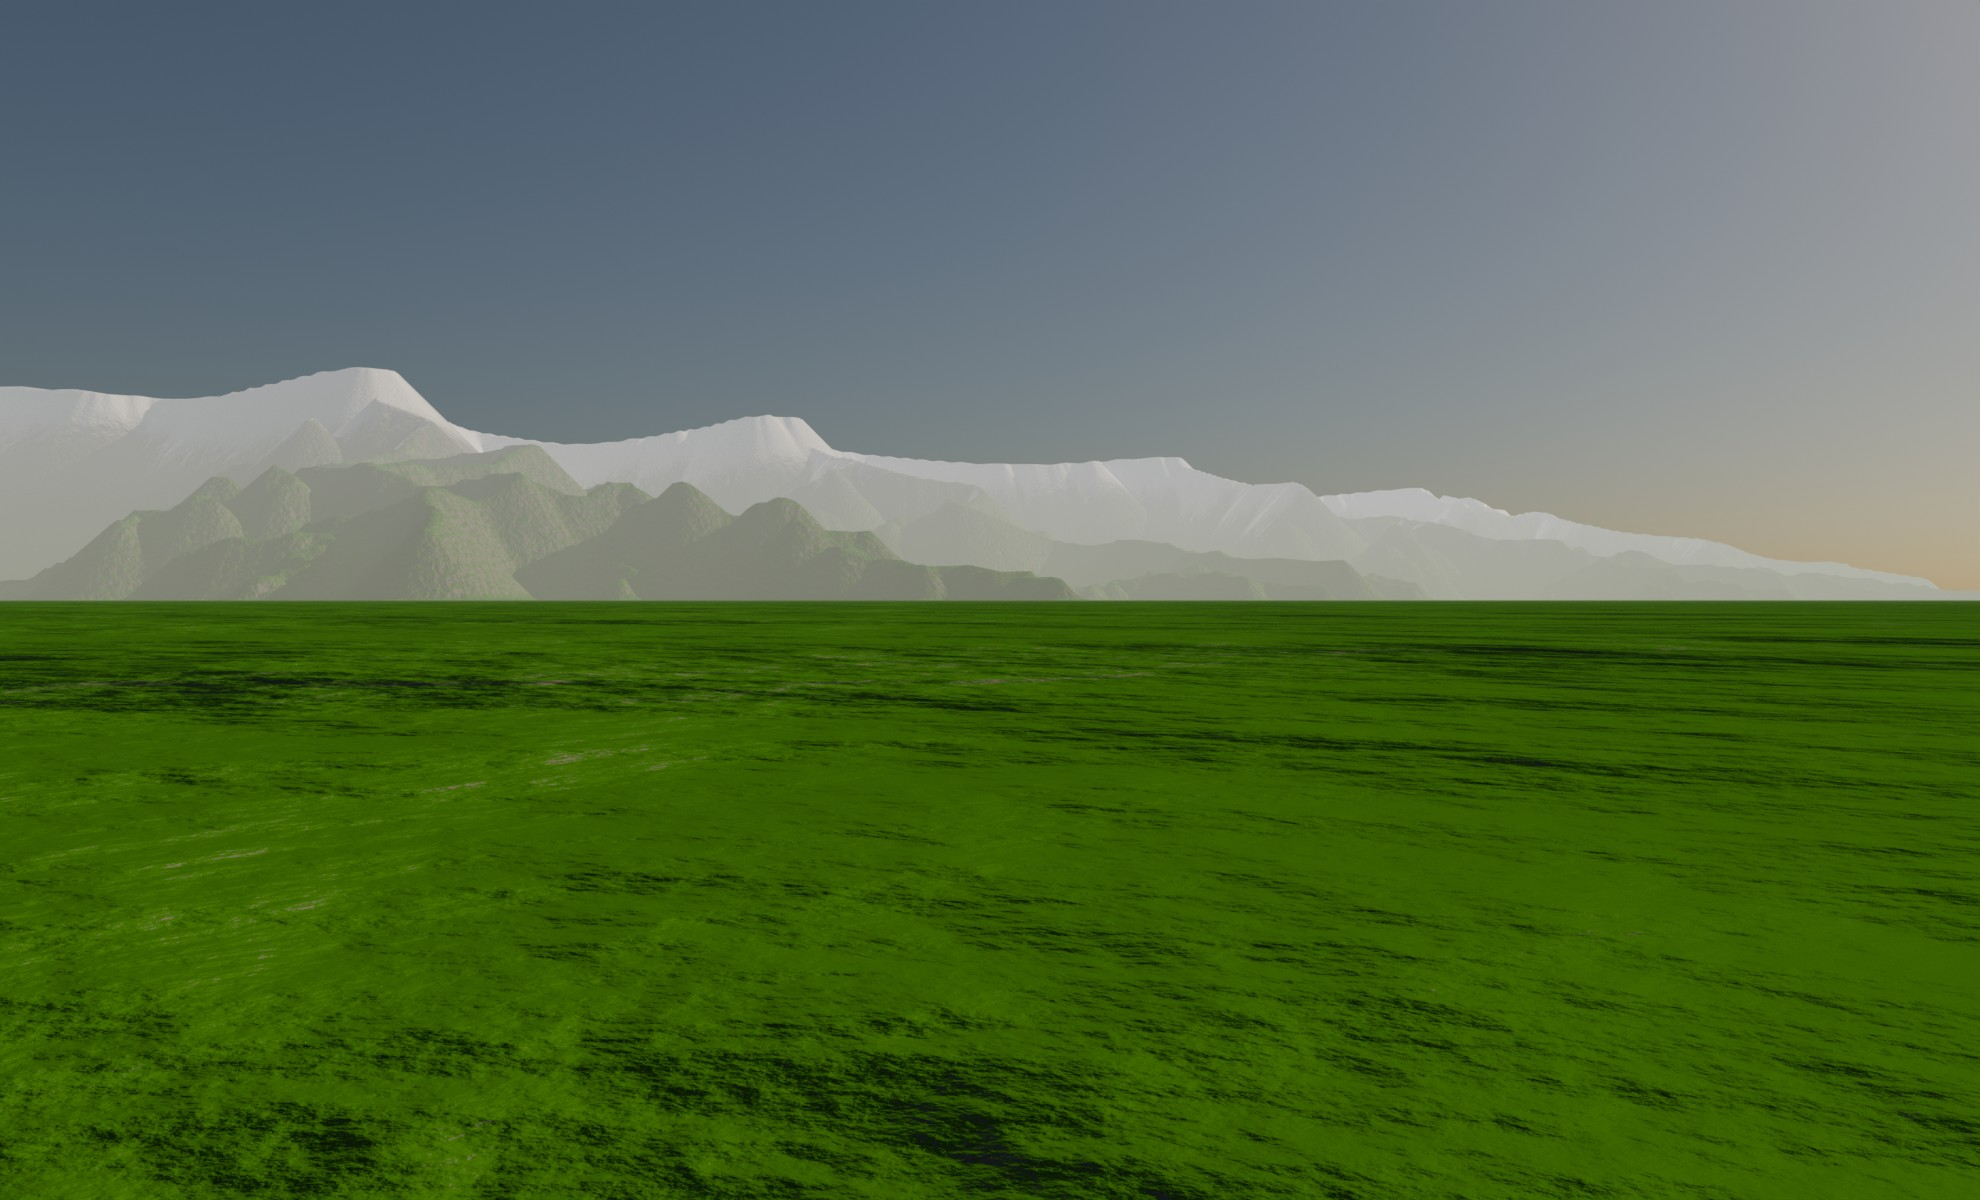
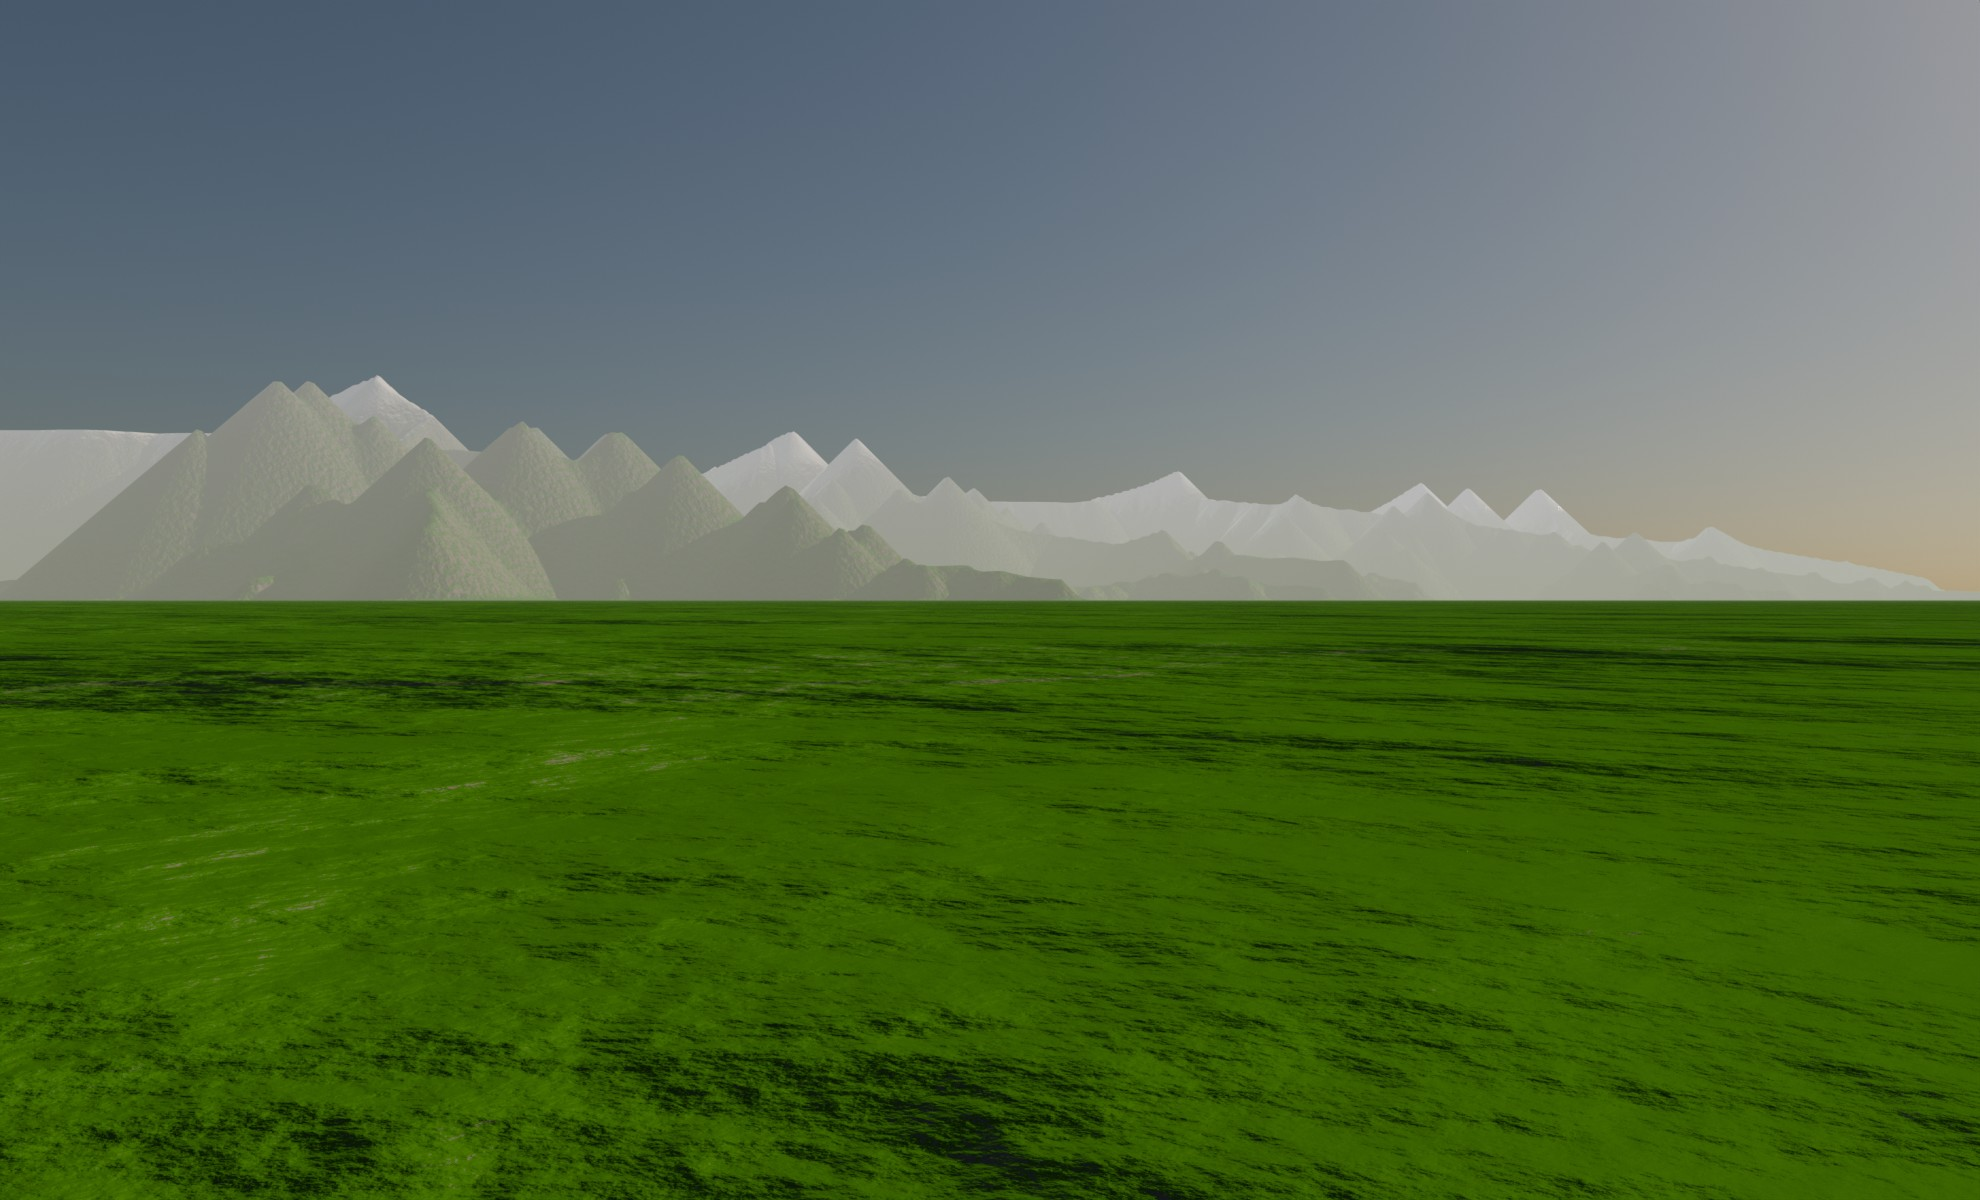
Implement support for adjusting slope on peaks

diff --git a/lib/generators/ridge_tree_generator/ridge_tree_branch.cpp b/lib/generators/ridge_tree_generator/ridge_tree_branch.cpp
@@ -4,8 +4,6 @@
 
 #include "lib/curve_tools/length.hpp"
 
-#include <random>
-
 terraformer::polynomial<3> terraformer::create_polynomial(
 	float curve_length,
 	elevation z_0,
@@ -13,24 +11,15 @@ terraformer::polynomial<3> terraformer::create_polynomial(
 	random_generator& rng
 )
 {
-	std::uniform_real_distribution slope_distribution{0.0f, 1.0f};
-	auto const t_begin = slope_distribution(rng);
-	auto const begin_range = elevation_profile.starting_slope.max
-		- elevation_profile.starting_slope.min;
-
-	auto const t_end = slope_distribution(rng);
-	auto const end_range = elevation_profile.final_slope.max
-		- elevation_profile.final_slope.min;
-
-	constexpr auto two_pi = std::numbers::pi_v<float>;
+	constexpr auto two_pi = 2.0f*std::numbers::pi_v<float>;
 	return make_polynomial(
 		cubic_spline_control_point{
 			.y = z_0,
-			.ddx = -curve_length*std::tan(two_pi*(elevation_profile.starting_slope.min + t_begin*begin_range))
+			.ddx = -curve_length*std::tan(two_pi*pick(elevation_profile.starting_slope, rng))
 		},
 		cubic_spline_control_point{
 			.y = elevation_profile.final_elevation,
-			.ddx = -curve_length*std::tan(two_pi*(elevation_profile.final_slope.min + t_end*end_range))
+			.ddx = -curve_length*std::tan(two_pi*pick(elevation_profile.final_slope, rng))
 		}
 	);
 }
@@ -47,20 +36,43 @@ terraformer::single_array<float> terraformer::generate_elevation_profile(
 
 	single_array ret{std::size(integrated_curve_length)};
 	for(auto k = ret.first_element_index(); k != std::size(ret); ++k)
-	{ ret[k] = ridge_polynomial(integrated_curve_length[k]/L); }
+	{ ret[k] = std::max(ridge_polynomial(integrated_curve_length[k]/L), 0.0f); }
 
 	return ret;
+}
+
+namespace
+{
+	auto wrap_derivative(
+		float target_derivative,
+		float modulation_func_val,
+		terraformer::polynomial<3> const& f,
+		float x,
+		float x_scale_factor,
+		float mod_depth
+	)
+	{
+		auto const x_scaled = x/x_scale_factor;
+		if(f(x_scaled) <= 0.0f)
+		{ return 0.0f; }
+
+		return (
+			 target_derivative
+			- (1.0f + mod_depth*modulation_func_val)*f.derivative(x_scaled)/x_scale_factor
+		)/(f(x_scaled)*mod_depth);
+	}
 }
 
 terraformer::single_array<float> terraformer::generate_elevation_profile(
 	span<float const> integrated_curve_length,
 	span<displaced_curve::index_type const> branch_points,
-	polynomial<3> const& initial_curve,
+	polynomial<3> const& initial_elevation,
 	peak_elevation_description const& elevation_profile,
 	random_generator& rng
 )
 {
-	// TODO: first element should use the post-modulated value from the parent as begin_elevation
+	// TODO: first element should probably use the post-modulated value from the parent as begin_elevation
+
 
 	if(integrated_curve_length.empty())
 	{ return terraformer::single_array<float>{}; }
@@ -79,10 +91,31 @@ terraformer::single_array<float> terraformer::generate_elevation_profile(
 		auto const dl = integrated_curve_length[end_index] - integrated_curve_length[begin_index];
 		auto const end_elevation = peak_elevation_distribution(rng);
 		auto const col_elvation = -peak_elevation_distribution(rng);
+		auto const mod_depth = elevation_profile.mod_depth;
+
+		constexpr auto two_pi = 2.0f*std::numbers::pi_v<float>;
+		auto const begin_ddx = wrap_derivative(
+			std::tan(two_pi*pick(elevation_profile.slope, rng)),
+			begin_elevation,
+			initial_elevation,
+			integrated_curve_length[begin_index],
+			L,
+			mod_depth
+		);
+
+		auto const end_ddx = wrap_derivative(
+			std::tan(two_pi*pick(elevation_profile.slope, rng)),
+			begin_elevation,
+			initial_elevation,
+			integrated_curve_length[begin_index],
+			L,
+			mod_depth
+		);
+
 		auto const p_peak_begin = make_polynomial(
 			cubic_spline_control_point{
 				.y = begin_elevation,
-				.ddx = 0.0f  // TODO
+				.ddx = -0.5f*dl*begin_ddx  // Divide by two to compensate for spline being compressed
 			},
 			cubic_spline_control_point{
 				.y = col_elvation,
@@ -97,20 +130,19 @@ terraformer::single_array<float> terraformer::generate_elevation_profile(
 			},
 			cubic_spline_control_point{
 				.y = end_elevation,
-				.ddx = 0.0f // TODO
+				.ddx = 0.5f*dl*end_ddx  // Divide by two to compensate for spline being compressed
 			}
 		);
 
-		auto const mod_func = [p_peak_begin, p_peak_end](auto x) {
-			return x < 0.5f? p_peak_begin(2.0f*x) : p_peak_end(2.0f*(x - 0.5f));
+		auto const mod_func = [p_peak_begin, p_peak_end, col_elvation](auto x) {
+			return std::max(x < 0.5f? p_peak_begin(2.0f*x) : p_peak_end(2.0f*(x - 0.5f)), col_elvation);
 		};
 
-		auto const mod_depth = elevation_profile.mod_depth;
 		for(auto l = begin_index; l != end_index; ++l)
 		{
 			auto const t = integrated_curve_length[l];
 			auto const x = t - integrated_curve_length[begin_index];
-			ret[l] = initial_curve(t/L)*(1.0f + mod_depth*mod_func(x/dl));
+			ret[l] = std::max(initial_elevation(t/L), 0.0f)*(1.0f + mod_depth*mod_func(x/dl));
 		}
 
 		begin_elevation = end_elevation;
@@ -120,7 +152,7 @@ terraformer::single_array<float> terraformer::generate_elevation_profile(
 	for(auto l = begin_index; l != std::size(integrated_curve_length); ++l)
 	{
 		auto const t = integrated_curve_length[l];
-		ret[l] = initial_curve(t/L);
+		ret[l] = std::max(initial_elevation(t/L), 0.0f);
 	}
 
 	return ret;

diff --git a/lib/generators/ridge_tree_generator/ridge_tree.test.cpp b/lib/generators/ridge_tree_generator/ridge_tree.test.cpp
@@ -131,14 +131,18 @@ TESTCASE(terraformer_ridge_tree_generate)
 					.min = terraformer::slope_angle{0.0f},
 					.max = terraformer::slope_angle{0.0f}
 				},
-				.final_elevation = terraformer::elevation{3072.0f},
+				.final_elevation = terraformer::elevation{2560.0f},
 				.final_slope{
 					.min = terraformer::slope_angle{0.0f},
 					.max = terraformer::slope_angle{0.0f}
 				}
 			},
 			.peaks{
-				.mod_depth = terraformer::modulation_depth{1.0f/6.0f}
+				.mod_depth = terraformer::modulation_depth{2.0f/5.0f},
+				.slope{
+					.min = terraformer::slope_angle{1.0f/24.0f},
+					.max = terraformer::slope_angle{1.0f/8.0f}
+				}
 			}
 		}
 		,
@@ -146,16 +150,20 @@ TESTCASE(terraformer_ridge_tree_generate)
 			.ridge{
 				.starting_slope{
 					.min = terraformer::slope_angle{0.0f},
-					.max = terraformer::slope_angle{1.0f/6.0f}
+					.max = terraformer::slope_angle{1.0f/24}
 				},
 				.final_elevation = terraformer::elevation{512.0f},
 				.final_slope{
 					.min = terraformer::slope_angle{0.0f},
-					.max = terraformer::slope_angle{1.0f/8.0f}
+					.max = terraformer::slope_angle{1.0f/12.0f}
 				}
 			},
 			.peaks{
-				.mod_depth = terraformer::modulation_depth{1.0f/6.0f}
+				.mod_depth = terraformer::modulation_depth{2.0f/5.0f},
+				.slope{
+					.min = terraformer::slope_angle{1.0f/24.0f},
+					.max = terraformer::slope_angle{1.0f/8.0f}
+				}
 			}
 		}
 		,
@@ -163,38 +171,46 @@ TESTCASE(terraformer_ridge_tree_generate)
 			.ridge{
 				.starting_slope{
 					.min = terraformer::slope_angle{0.0f},
-					.max = terraformer::slope_angle{1.0f/8.0f}
+					.max = terraformer::slope_angle{1.0f/12.0f}
 				},
 				.final_elevation = terraformer::elevation{256.0f},
-				.final_slope{
-					.min = terraformer::slope_angle{0.0f},
-					.max = terraformer::slope_angle{1.0f/12.0f}
-				}
-			},
-			.peaks{
-				.mod_depth = terraformer::modulation_depth{1.0f/6.0f}
-			}
-		},
-		terraformer::ridge_tree_branch_elevation_profile{
-			.ridge{
-				.starting_slope{
-					.min = terraformer::slope_angle{0.0f},
-					.max = terraformer::slope_angle{1.0f/12.0f}
-				},
-				.final_elevation = terraformer::elevation{160.0f},
 				.final_slope{
 					.min = terraformer::slope_angle{0.0f},
 					.max = terraformer::slope_angle{1.0f/24.0f}
 				}
 			},
 			.peaks{
-				.mod_depth = terraformer::modulation_depth{1.0f/6.0f}
+				.mod_depth = terraformer::modulation_depth{2.0f/5.0f},
+				.slope{
+					.min = terraformer::slope_angle{1.0f/24.0f},
+					.max = terraformer::slope_angle{1.0f/8.0f}
+				}
+			}
+		},
+		terraformer::ridge_tree_branch_elevation_profile{
+			.ridge{
+				.starting_slope{
+					.min = terraformer::slope_angle{0.0f},
+					.max = terraformer::slope_angle{1.0f/24.0f}
+				},
+				.final_elevation = terraformer::elevation{160.0f},
+				.final_slope{
+					.min = terraformer::slope_angle{0.0f},
+					.max = terraformer::slope_angle{0.0f}
+				}
+			},
+			.peaks{
+				.mod_depth = terraformer::modulation_depth{2.0f/5.0f},
+				.slope{
+					.min = terraformer::slope_angle{1.0f/24.0f},
+					.max = terraformer::slope_angle{1.0f/8.0f}
+				}
 			}
 		}
 	};
 
 	res.update_elevations(
- 		terraformer::elevation{3072.0f},
+ 		terraformer::elevation{2560.0f},
 		elevation_profiles,
 		rng
 	);

diff --git a/lib/generators/ridge_tree_generator/ridge_tree_branch.hpp b/lib/generators/ridge_tree_generator/ridge_tree_branch.hpp
@@ -15,19 +15,29 @@
 #include "lib/curve_tools/length.hpp"
 #include "lib/curve_tools/displace.hpp"
 
+#include <random>
+
 namespace terraformer
 {
-	struct slope_range
+	struct slope_angle_range
 	{
 		slope_angle min;
 		slope_angle max;
 	};
 
+	inline auto pick(slope_angle_range range, random_generator& rng)
+	{
+		std::uniform_real_distribution slope_distribution{0.0f, 1.0f};
+		auto const delta = range.max - range.min;
+		auto const t = slope_distribution(rng);
+		return range.min + t*delta;
+	}
+
 	struct ridge_elevation_profile_description
 	{
-		slope_range starting_slope;
+		slope_angle_range starting_slope;
 		elevation final_elevation;
-		slope_range final_slope;
+		slope_angle_range final_slope;
 	};
 
 	polynomial<3> create_polynomial(
@@ -45,8 +55,7 @@ namespace terraformer
 	struct peak_elevation_description
 	{
 		modulation_depth mod_depth;
-	// TODO	slope_angle min_peak_angle;
-	// TODO	slope_angle max_peak_angle;
+		slope_angle_range slope;
 	};
 
 	single_array<float> generate_elevation_profile(

diff --git a/lib/math_utils/polynomial.hpp b/lib/math_utils/polynomial.hpp
@@ -38,6 +38,9 @@ namespace terraformer
 			{ return polynomial<0>{}; }
 		}
 
+		constexpr auto derivative(float x) const
+		{ return derivative()(x); }
+
 		constexpr bool operator==(polynomial const& other) const = default;
 
 		constexpr bool operator!=(polynomial const& other) const = default;

diff --git a/lib/generators/ridge_tree_generator/ridge_tree.cpp b/lib/generators/ridge_tree_generator/ridge_tree.cpp
@@ -241,7 +241,6 @@ void terraformer::ridge_tree::update_elevations(
 			replace_z_inplace(my_curves[k].points(), elevation_profile);
 		}
 	}
-
 }
 
 void terraformer::render(
